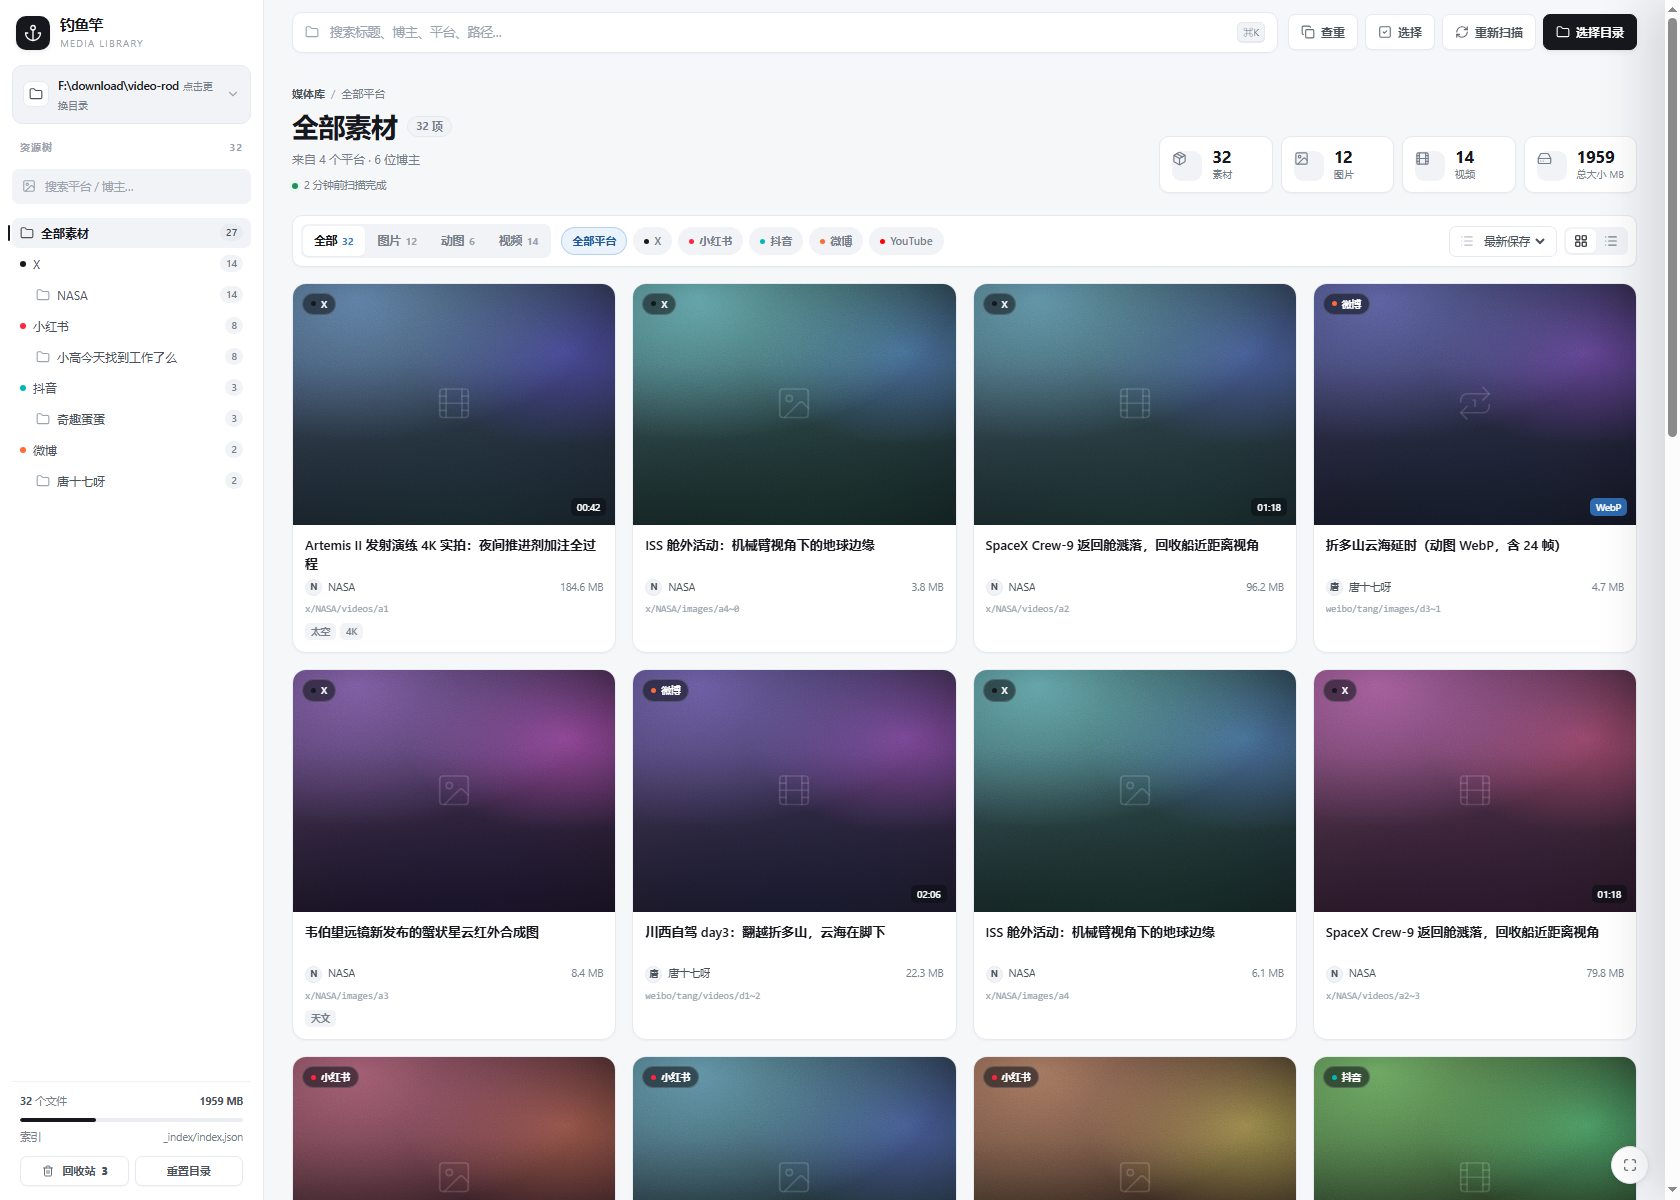
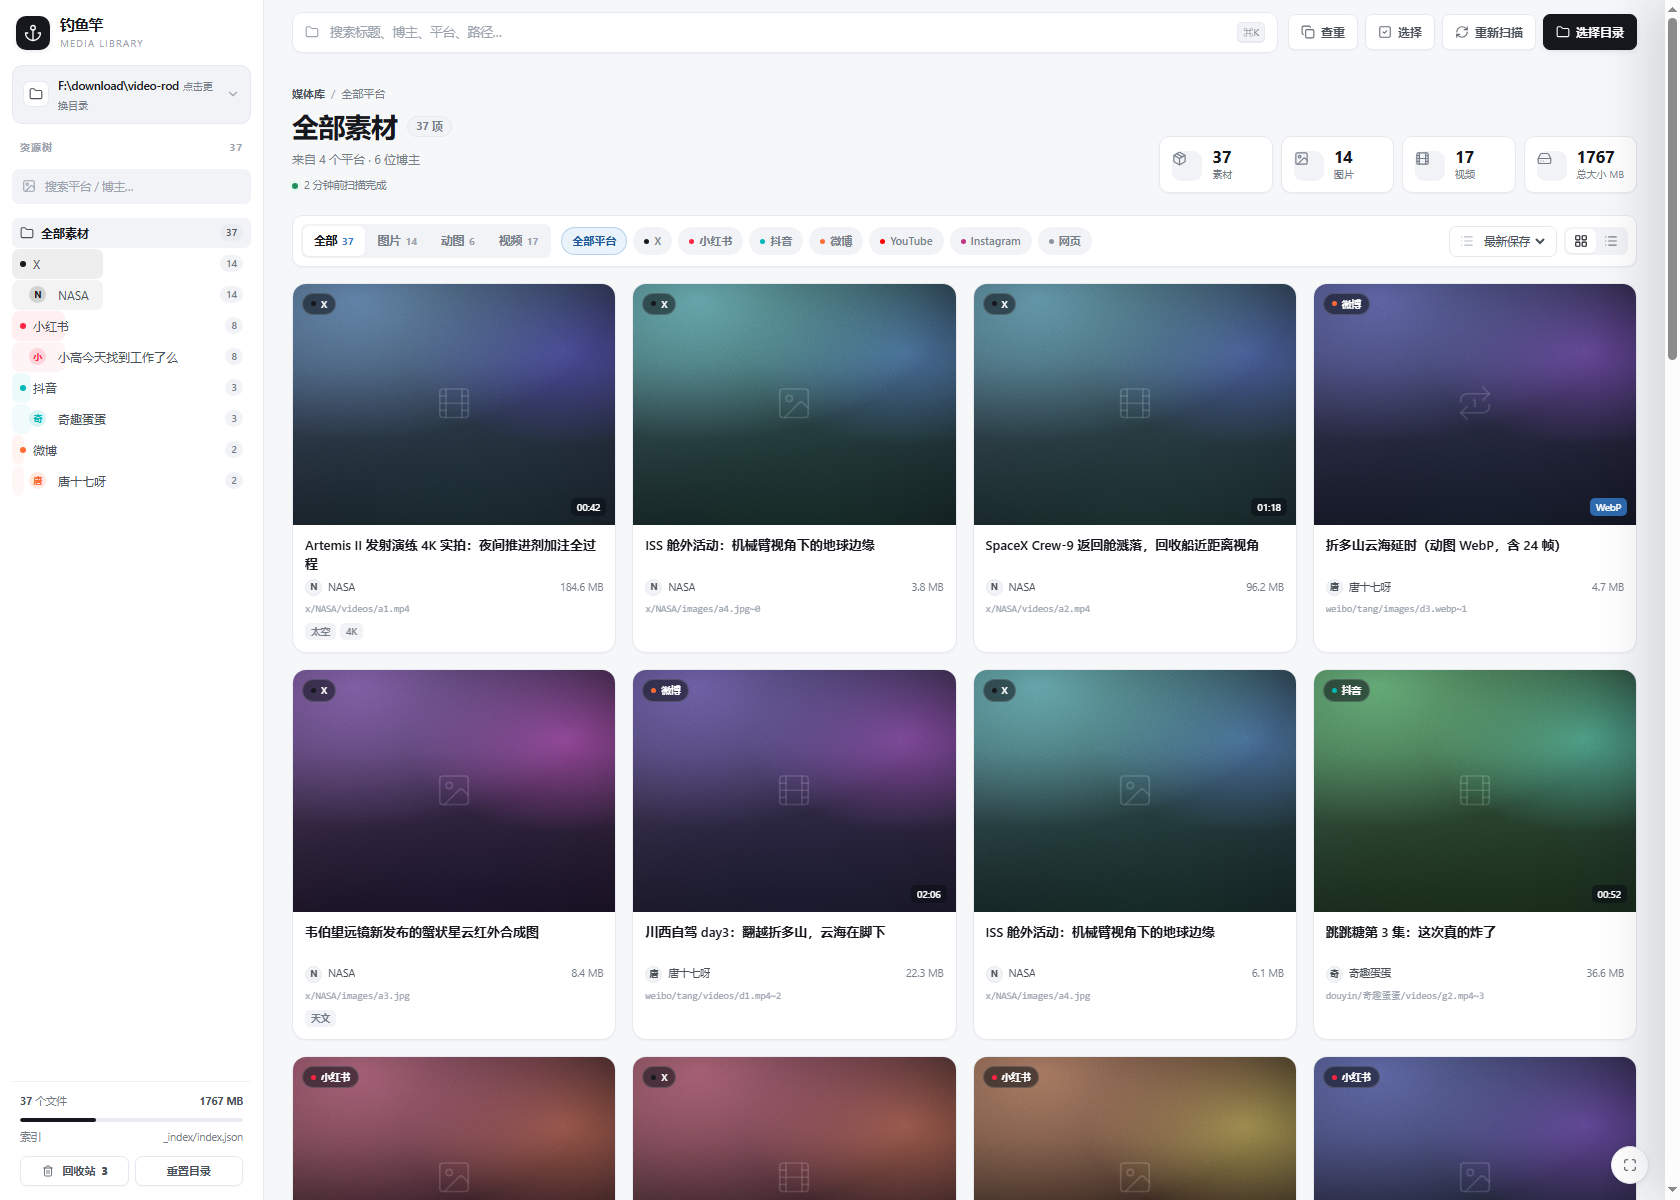
feat(proto): 信息栏关键值化 + 侧栏占比可视化（苏哥反馈"文字一大堆"）
苏哥两张截图反馈：文字堆一起、多了看不清、各级层次没差别。
诊断：问题不是"字多"，是**所有信息用同一种排版语法**——12 行信息栏全长一样，
侧栏 8 行数字胶囊也长一样，眼睛只能逐行读，不能扫。

一、信息栏：把"标签:值"改成"大数字 + 小标签"
   文件组：分辨率 / 大小 / 时长 做成三个并排方块，值 13.5px 加粗等宽，
   标签 10px 灰色在下。原先 7 行压成 1 行 3 块。
   其余（格式/文件名/路径）收进「更多文件信息」折叠，信息一条不少。
   来源组：平台 / 原帖 / 直链 常显，作者ID / 作品ID / 下载时间 收进「溯源详情」。
   12 行 → 可见 6 块，需要时展开仍能看到全部。

二、侧栏：用占比条代替数字胶囊
   每行加一条淡色背景条，宽度 = 该平台/作者占全库比例
   （全部素材 100% / X 38% / 小红书 22% / 微博 5%）。
   平台级：品牌色点 + 品牌色淡底条；
   作者级：缩进 + 树线 + 淡底彩色首字母圆（不做实心，避免和平台色点混，
   也符合"不要太显眼但能区分"）。
   分布一眼可读，不用逐个读数字。

修的问题：
- lv2 用 margin 缩进撑出横向滚动条 → 改 padding + .tree overflow-x:hidden
- root 占比分子用 mock 的 27、分母用真实 37 → 算成 73%，改为固定 100%
- 方块标签用 --faint 太淡几乎看不见 → 提到 --muted
- 作者头像实心色与平台点混淆 → 改淡底彩字

验证 9 项全 PASS、0 错误。
注意：morph 动效让 openPreview 变成异步（下一帧才改 DOM），
自动化测试点完卡片必须等约 600ms 再读，否则读到上一张的旧值——
已把重命名用例拆成"点开→等待→重命名"两步。

diff --git a/deliverables/prototypes/media-library-redesign-v1.html b/deliverables/prototypes/media-library-redesign-v1.html
@@ -867,6 +867,90 @@ a.pi-row:hover .go{opacity:1}
 .author-retry .i{width:11px;height:11px}
 .avatar.ghost{background:var(--surface-3);color:var(--faint)}
 
+/* ---- 关键值块：把"标签:值"变成"大数字 + 小标签" ---- */
+.pi-stats{display:grid;grid-template-columns:repeat(3,minmax(0,1fr));gap:6px;margin-bottom:12px}
+.pi-stats .stat{
+  display:flex;flex-direction:column;gap:2px;min-width:0;
+  padding:9px 10px;border-radius:9px;
+  background:var(--surface-2);border:1px solid var(--line-2);
+  transition:background .12s,border-color .12s;
+}
+.pi-stats .stat:hover{background:var(--surface-3);border-color:var(--line)}
+.pi-stats .stat b{
+  font-size:13.5px;font-weight:660;letter-spacing:-.3px;color:var(--ink);
+  font-variant-numeric:tabular-nums;white-space:nowrap;overflow:hidden;
+  text-overflow:ellipsis;line-height:1.25;
+}
+.pi-stats .stat span{font-size:10px;color:var(--muted);letter-spacing:.01em}
+
+/* ---- 折叠区：长串字段（ID/路径/直链）默认收起 ---- */
+.pi-fold{margin:2px 0 0}
+.pi-fold summary{
+  display:flex;align-items:center;gap:5px;padding:5px 0;
+  cursor:pointer;list-style:none;font-size:10.5px;color:var(--muted);
+  transition:color .12s;
+}
+.pi-fold summary::-webkit-details-marker{display:none}
+.pi-fold summary:hover{color:var(--ink-2)}
+.pi-fold summary i{
+  font-style:normal;font-size:9px;transition:transform .16s var(--ease);
+  color:var(--faint);margin-left:2px;
+}
+.pi-fold[open] summary i{transform:rotate(90deg)}
+.pi-fold summary .n{
+  font-size:9px;color:var(--faint);background:var(--surface-2);
+  padding:0 5px;border-radius:99px;margin-left:auto;
+}
+
+/* ---- 资源树：每行带占比条，越多的平台底色越满 ---- */
+.tree-node{position:relative;isolation:isolate;overflow:hidden}
+.tree-node::before{
+  content:"";position:absolute;left:0;top:0;bottom:0;width:var(--pct,0%);
+  background:var(--pc,var(--ink));opacity:.05;border-radius:inherit;z-index:-1;
+  transition:opacity .12s,width .28s var(--ease);
+}
+.tree-node.plat::before{opacity:.075}
+.tree-node:hover::before{opacity:.1}
+.tree-node.active::before{opacity:.13}
+/* 作者级：缩进 + 一根树线，和平台级拉开层次 */
+.tree-node.lv2{padding-left:26px}
+.tree-node.lv2 .av{margin-left:-9px;margin-right:5px}
+.tree{overflow-x:hidden}
+.tree-node.lv2::after{
+  content:"";position:absolute;left:-9px;top:3px;bottom:3px;width:1px;
+  background:var(--line);border-radius:1px;
+}
+/* 作者头像是首字母圆点，比文件夹图标更能区分"某个人" */
+/* 作者：淡底 + 彩色首字母（不是实心），和平台的"实心色点"区分开，也不抢眼 */
+.tree-node .av{
+  width:17px;height:17px;flex:0 0 17px;border-radius:50%;
+  display:grid;place-items:center;font-size:8.5px;font-weight:700;
+  color:var(--pc,#6B7480);letter-spacing:0;
+  background:color-mix(in srgb,var(--pc,#9AA3AF) 15%,transparent);
+}
+
+/* ---- 资源树：每行带占比条，越多的平台底色越满 ---- */
+.tree-node{position:relative;isolation:isolate;overflow:hidden}
+.tree-node::before{
+  content:"";position:absolute;left:0;top:0;bottom:0;width:var(--pct,0%);
+  background:var(--pc,var(--ink));opacity:.05;border-radius:inherit;z-index:-1;
+  transition:opacity .12s,width .28s var(--ease);
+}
+.tree-node.plat::before{opacity:.075}
+.tree-node:hover::before{opacity:.1}
+.tree-node.active::before{opacity:.13}
+/* 作者级：缩进 + 一根树线，和平台级拉开层次 */
+.tree-node.lv2{padding-left:26px}
+.tree-node.lv2 .av{margin-left:-9px;margin-right:5px}
+/* 作者头像是首字母圆点，比文件夹图标更能区分"某个人" */
+/* 作者：淡底 + 彩色首字母（不是实心），和平台的"实心色点"区分开，也不抢眼 */
+.tree-node .av{
+  width:17px;height:17px;flex:0 0 17px;border-radius:50%;
+  display:grid;place-items:center;font-size:8.5px;font-weight:700;
+  color:var(--pc,#6B7480);letter-spacing:0;
+  background:color-mix(in srgb,var(--pc,#9AA3AF) 15%,transparent);
+}
+
 /* ---- 信息栏 v3：分组 + 标签/值对齐，信息一个不删 ---- */
 .pi-group{border-top:1px solid var(--line-2);padding:12px 0 2px}
 .pi-label{
@@ -1538,34 +1622,50 @@ kbd{
 
       <section class="pi-group">
         <h3 class="pi-label">文件</h3>
-        <dl class="pi-list">
-          <div class="pi-item"><dt>大小</dt><dd id="pvSize">51.4 MB</dd></div>
-          <div class="pi-item"><dt>分辨率</dt><dd id="pvRes">3840 × 2160</dd></div>
-          <div class="pi-item"><dt id="pvThirdK">时长</dt><dd id="pvThirdV">01:24</dd></div>
-          <div class="pi-item"><dt>格式</dt><dd id="pvFmt">MP4</dd></div>
-          <div class="pi-item"><dt>保存时间</dt><dd id="pvSaved">—</dd></div>
-          <div class="pi-item"><dt>文件名</dt><dd class="mono" id="pvFileName">—</dd></div>
-          <div class="pi-item hidden" id="pvStateRow"><dt>状态</dt><dd id="pvState" style="color:var(--danger)">—</dd></div>
-          <div class="pi-item"><dt>路径</dt><dd class="mono" id="pvPath">douyin/qqdd/videos/c2.mp4</dd>
-            <button class="inline-copy" id="pvPathCopy" title="复制完整路径"><svg class="i"><use href="#i-copy"/></svg></button></div>
-        </dl>
+        <!-- 一眼要看的三个值：做大，横排 -->
+        <div class="pi-stats">
+          <div class="stat"><b id="st1v">—</b><span id="st1k">分辨率</span></div>
+          <div class="stat"><b id="st2v">—</b><span id="st2k">大小</span></div>
+          <div class="stat"><b id="st3v">—</b><span id="st3k">保存</span></div>
+        </div>
+        <div class="pi-item hidden" id="pvStateRow"><dt>状态</dt><dd id="pvState" style="color:var(--danger)">—</dd></div>
+        <!-- 其余收起来：信息一个不少，但不占版面 -->
+        <details class="pi-fold">
+          <summary>更多文件信息<i>›</i></summary>
+          <dl class="pi-list">
+            <div class="pi-item"><dt>大小</dt><dd id="pvSize">51.4 MB</dd></div>
+            <div class="pi-item"><dt>分辨率</dt><dd id="pvRes">3840 × 2160</dd></div>
+            <div class="pi-item"><dt id="pvThirdK">时长</dt><dd id="pvThirdV">01:24</dd></div>
+            <div class="pi-item"><dt>格式</dt><dd id="pvFmt">MP4</dd></div>
+            <div class="pi-item"><dt>保存时间</dt><dd id="pvSaved">—</dd></div>
+            <div class="pi-item"><dt>文件名</dt><dd class="mono" id="pvFileName">—</dd></div>
+            <div class="pi-item"><dt>路径</dt><dd class="mono" id="pvPath">douyin/qqdd/videos/c2.mp4</dd>
+              <button class="inline-copy" id="pvPathCopy" title="复制完整路径"><svg class="i"><use href="#i-copy"/></svg></button></div>
+          </dl>
+        </details>
       </section>
 
       <section class="pi-group">
         <h3 class="pi-label">来源 <span class="pi-badge" id="pvSrcBadge"><svg class="i"><use href="#i-circle-check"/></svg>已记录</span></h3>
         <dl class="pi-list">
           <div class="pi-item"><dt>平台</dt><dd id="pvSrcPlat">X / Twitter</dd></div>
-          <div class="pi-item hidden" id="pvUidRow"><dt>作者 ID</dt><dd class="mono" id="pvUid">—</dd></div>
-          <div class="pi-item"><dt>作品 ID</dt><dd class="mono" id="pvWorkId">—</dd></div>
           <a class="pi-item" id="pvPageRow" href="#" target="_blank" rel="noopener">
             <dt>原帖</dt><dd class="mono" id="pvPageVal">—</dd><span class="go">↗</span>
           </a>
           <div class="pi-item" id="pvMediaRow"><dt>直链</dt><dd class="mono" id="pvMediaVal">—</dd>
             <span class="tag-warn" id="pvExpireWarn" title="CDN 直链带签名，会过期；回溯请用「原帖」"><svg class="i"><use href="#i-triangle-alert"/></svg></span>
             <button class="inline-copy" id="pvCopyBtn"><svg class="i"><use href="#i-copy"/></svg>复制</button></div>
-          <div class="pi-item"><dt>下载时间</dt><dd id="pvTimeVal">—</dd></div>
           <div class="pi-item hidden" id="pvSrcMiss"><dt>提示</dt><dd class="pi-empty">历史素材：原帖与直链未记录</dd></div>
         </dl>
+        <!-- 长串 ID 很少看，收起来 -->
+        <details class="pi-fold">
+          <summary>溯源详情<i>›</i></summary>
+          <dl class="pi-list">
+            <div class="pi-item hidden" id="pvUidRow"><dt>作者 ID</dt><dd class="mono" id="pvUid">—</dd></div>
+            <div class="pi-item"><dt>作品 ID</dt><dd class="mono" id="pvWorkId">—</dd></div>
+            <div class="pi-item"><dt>下载时间</dt><dd id="pvTimeVal">—</dd></div>
+          </dl>
+        </details>
       </section>
 
       <section class="pi-group">
@@ -1790,10 +1890,28 @@ const TREE = [
 function renderTree(){
   const q = $('#treeSearch').value.trim().toLowerCase();
   const rows = TREE.filter(t=>!q || t.label.toLowerCase().includes(q));
+  /* 分母用真实素材数，别用 mock 里的 27，否则占比条对不上总数 */
+  const total = FILES.length || 1;
+  let curColor = '#9AA3AF';
   $('#tree').innerHTML = rows.map(t=>{
-    if(t.kind==='root') return `<button class="tree-node active"><svg class="i i-sm"><use href="#i-folder"/></svg><span class="label">${t.label}</span><span class="count">${t.count}</span></button>`;
-    if(t.kind==='plat') return `<button class="tree-node"><span class="dot" style="--pc:${PLAT[t.key].dot}"></span><span class="label">${t.label}</span><span class="count">${t.count}</span></button>`;
-    return `<button class="tree-node lv2"><svg class="i i-sm"><use href="#i-folder"/></svg><span class="label">${esc(t.label)}</span><span class="count">${t.count}</span></button>`;
+    /* root 就是全量，用 100%；其余按真实总数算占比 */
+    const pct = t.kind === 'root' ? 100
+      : Math.max(2, Math.min(100, Math.round(t.count / total * 100)));
+    if (t.kind === 'plat') { curColor = PLAT[t.key].dot; }
+    if (t.kind === 'root') {
+      return `<button class="tree-node active" style="--pct:${pct}%">` +
+        `<svg class="i i-sm"><use href="#i-folder"/></svg>` +
+        `<span class="label">${t.label}</span><span class="count">${total}</span></button>`;
+    }
+    if (t.kind === 'plat') {
+      return `<button class="tree-node plat" style="--pct:${pct}%;--pc:${curColor}">` +
+        `<span class="dot" style="--pc:${curColor}"></span>` +
+        `<span class="label">${esc(t.label)}</span><span class="count">${t.count}</span></button>`;
+    }
+    /* 作者级：首字母圆 + 平台色的淡底色，视觉上和平台分开 */
+    return `<button class="tree-node lv2" style="--pct:${pct}%;--pc:${curColor}">` +
+      `<span class="av">${esc(String(t.label).slice(0,1))}</span>` +
+      `<span class="label">${esc(t.label)}</span><span class="count">${t.count}</span></button>`;
   }).join('');
 }
 $('#treeSearch').addEventListener('input',renderTree);
@@ -2173,7 +2291,21 @@ function paintPreview(){
   $('#pvAvatar').textContent = (f.author||'?').slice(0,1);
   paintSrc(f);
   $('#pvCrumb').innerHTML = `<b>${p.label}</b> / ${esc(f.author)} / ${f.kind==='video'?'videos':'images'}`;
-  /* 文件组：信息全保留，按「标签 / 值」两列对齐 */
+  /* 一眼要看的三个值：分辨率 / 大小 / 时长（图片则是保存日期） */
+  const resBig = isV ? '3840 × 2160' : '2400 × 3200';
+  $('#st1v').textContent = resBig;
+  $('#st1k').textContent = '分辨率';
+  $('#st2v').textContent = fmt(f.size);
+  $('#st2k').textContent = '大小';
+  if (isV) {
+    $('#st3v').textContent = f.dur || '—';
+    $('#st3k').textContent = '时长';
+  } else {
+    $('#st3v').textContent = shortDate(f.savedAt || f.dlAt);
+    $('#st3k').textContent = '保存';
+  }
+
+  /* 折叠区里的完整信息照旧填 */
   $('#pvSize').textContent = fmt(f.size);
   $('#pvRes').textContent = isV ? '3840 × 2160' : '2400 × 3200';
   const thirdRow = $('#pvThirdK').parentElement;
